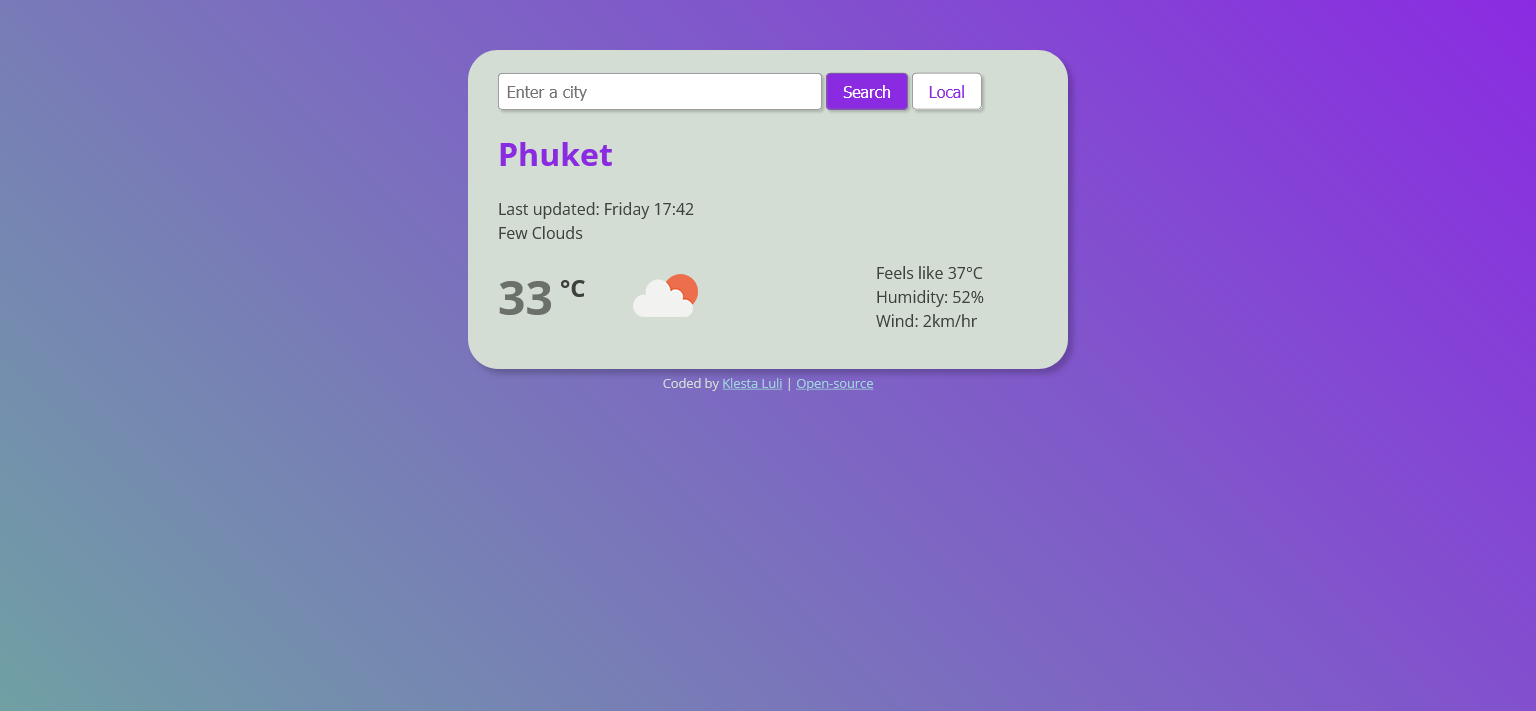
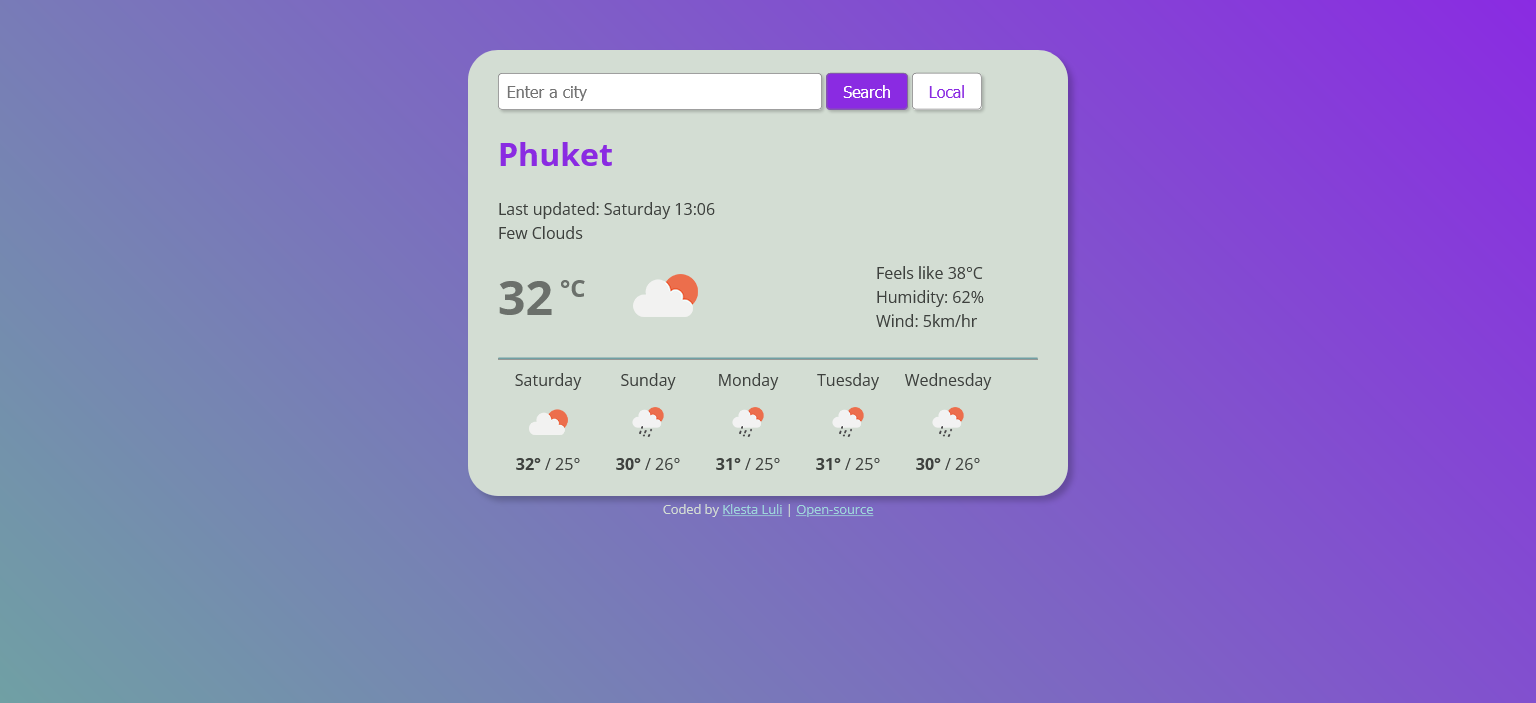
replaced screenshot and shortened names of the days

diff --git a/script.js b/script.js
@@ -92,15 +92,7 @@ function getForecast(coords) {
 }
 
 function formatDay(timestamp) {
-  const daysOfWeek = [
-    'Sunday',
-    'Monday',
-    'Tuesday',
-    'Wednesday',
-    'Thursday',
-    'Friday',
-    'Saturday',
-  ];
+  const daysOfWeek = ['Sun', 'Mon', 'Tue', 'Wed', 'Thu', 'Fri', 'Sat'];
   const date = new Date(timestamp * 1000);
   let day = date.getDay();
   return daysOfWeek[day];
